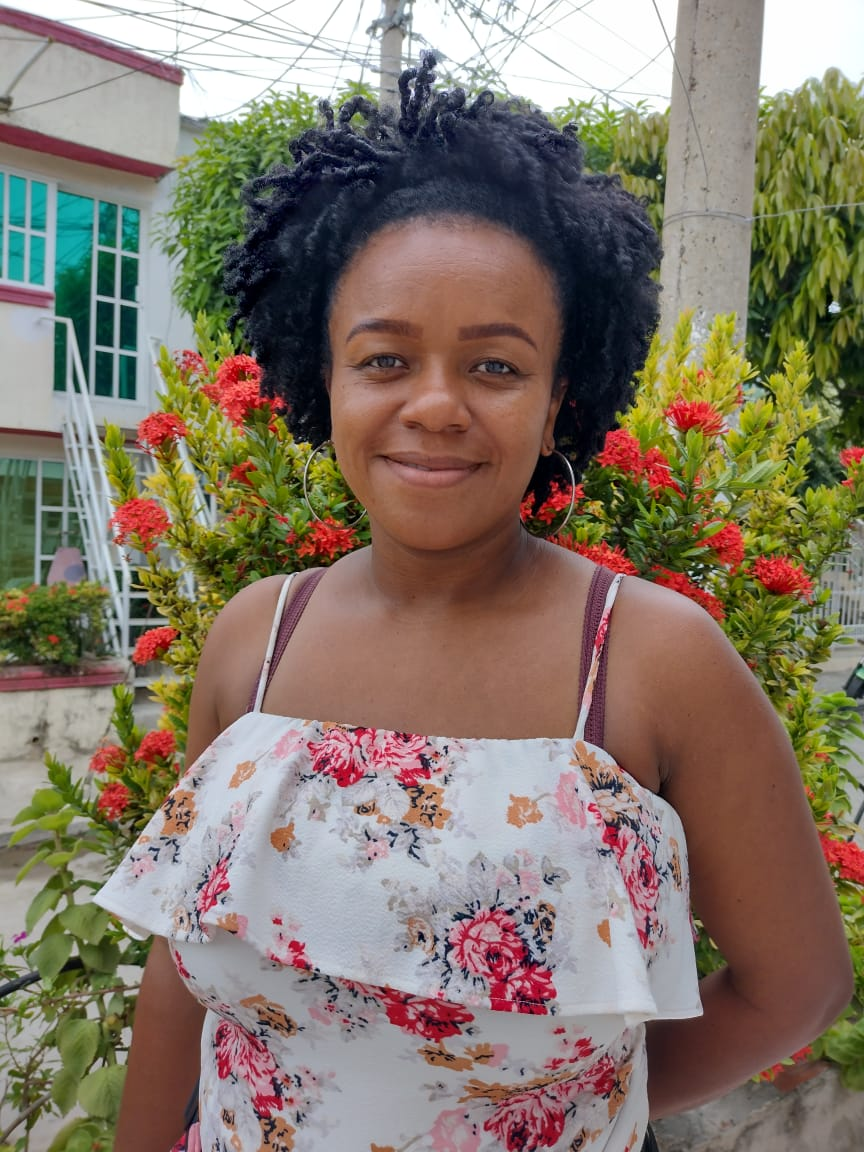
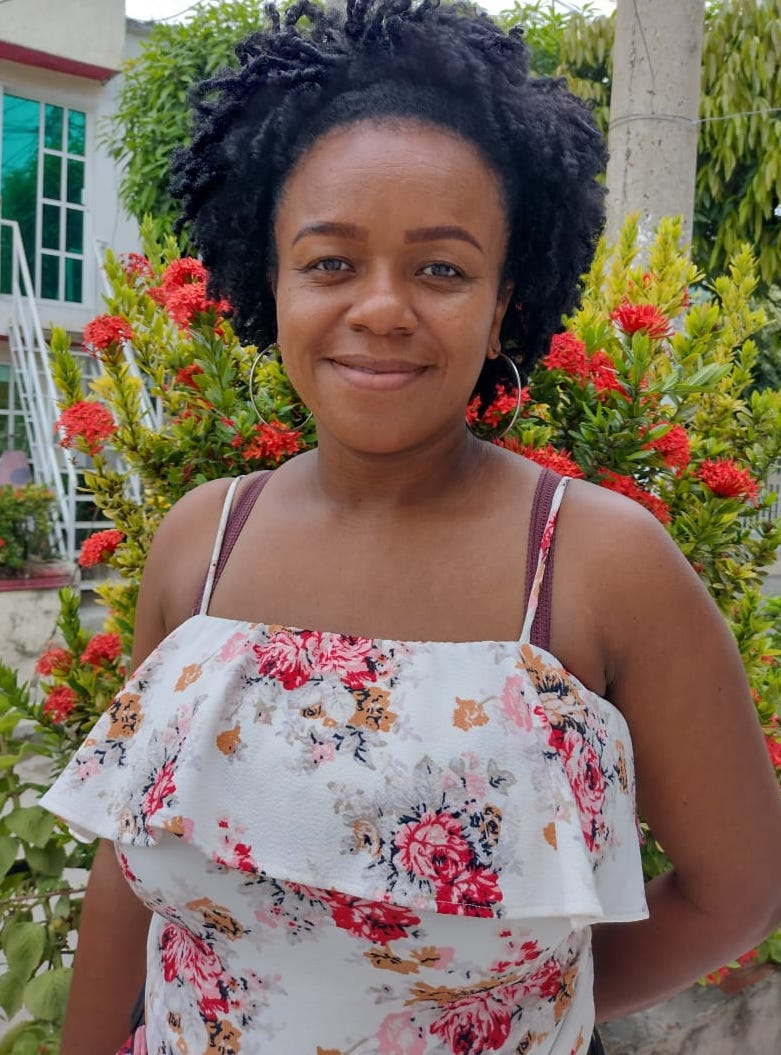
Improve pics

diff --git a/src/components/About/About.js b/src/components/About/About.js
@@ -1,8 +1,8 @@
 import { useTranslation } from 'react-i18next';
 
-import LisneyPic from './lisney.jpeg';
-import EverlisPic from './everlis.jpeg';
-import GuillermoPic from './guillermo.jpeg';
+import LisneyPic from './lisney.png';
+import EverlisPic from './everlis.png';
+import GuillermoPic from './guillermo.png';
 
 export default function About () {
   const { t } = useTranslation();
@@ -14,21 +14,24 @@ export default function About () {
       role: t('about.lisneyRole'),
       image: LisneyPic,
       bio:
-        t('about.lisneyDesc')
+        t('about.lisneyDesc'),
+      classNames: 'object-top'
     },
     {
       name: 'Guillermo Sarmiento Aponte',
       role: t('about.guillermoRole'),
       image: GuillermoPic,
       bio:
-        t('about.guillermoDesc')
+        t('about.guillermoDesc'),
+      classNames: 'object-top'
     },
     {
       name: 'Everlis González Mena',
       role: t('about.everlisRole'),
       image: EverlisPic,
       bio:
-        t('about.everlisDesc')
+        t('about.everlisDesc'),
+      classNames: 'object-center'
     }
   ];
 
@@ -50,7 +53,7 @@ export default function About () {
                 <li key={ person.name } className="sm:py-8">
                   <div className="space-y-4 sm:grid sm:grid-cols-3 sm:items-start sm:gap-6 sm:space-y-0">
                     <div className="aspect-w-3 aspect-h-2 sm:aspect-w-3 sm:aspect-h-4">
-                      <img className="object-cover object-top shadow-lg rounded-lg" src={ person.image } alt="" />
+                      <img className={ `object-cover shadow-lg rounded-lg ${person.classNames}` } src={ person.image } alt="" />
                     </div>
                     <div className="sm:col-span-2">
                       <div className="space-y-4">
@@ -72,4 +75,4 @@ export default function About () {
       </div>
     </div>
   );
-}
+};
